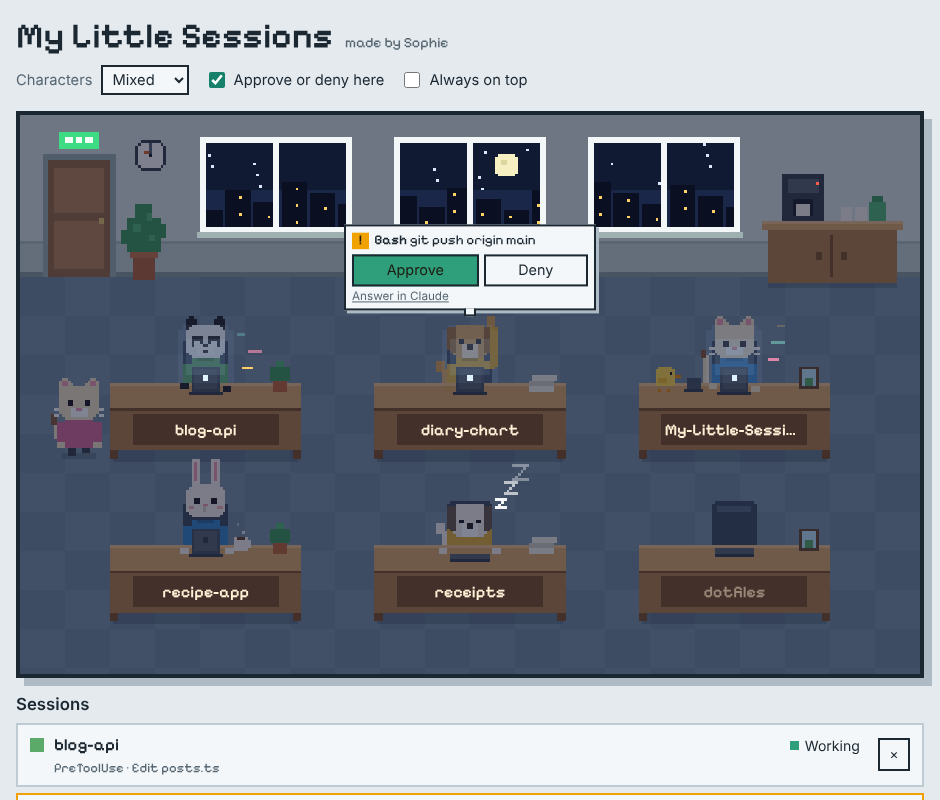
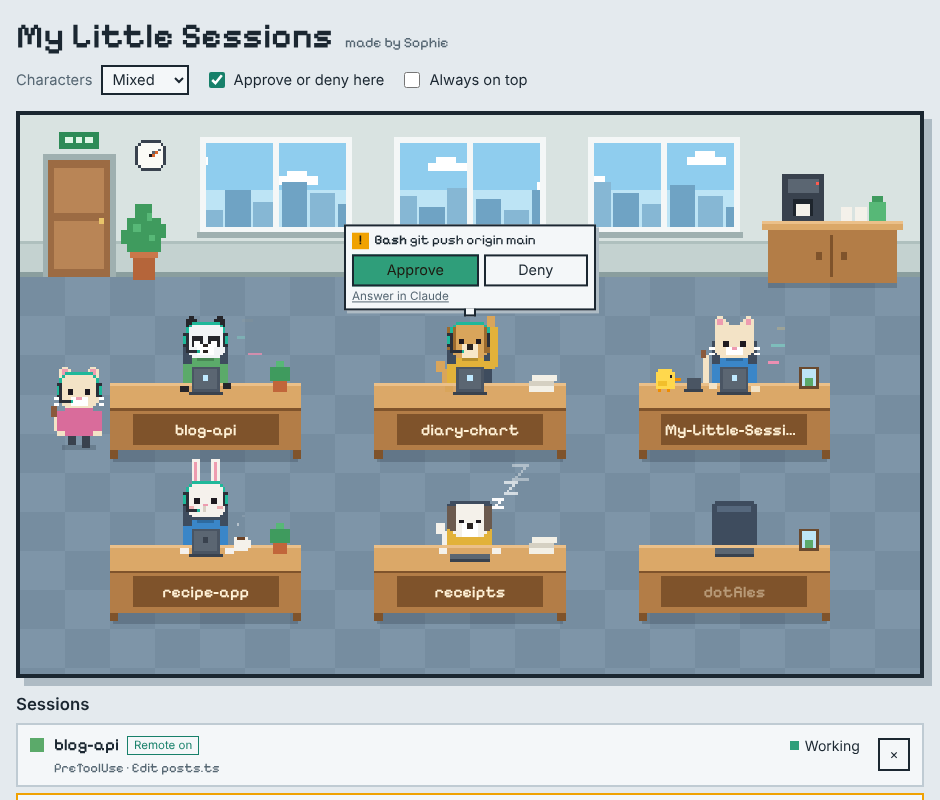
Show a headset on sessions whose Remote Control is connected
Each hook now passes along whether the session's Remote Control is
connected (Claude Code sets CLAUDE_CODE_BRIDGE_SESSION_ID for hooks while
it is). Connected sessions wear a headset, the list shows "Remote on" or
"Remote off", and clicking a character whose Remote Control is off
offers a button that copies /remote-control.

Hooks installed by earlier versions keep working but do not report this,
so the app asks to connect again to update them.

Version 0.2.0.

Claude-Session: https://claude.ai/code/session_011fB4UR8gxU3EZ1Y68YrFjY

diff --git a/src/ui/app.js b/src/ui/app.js
@@ -11,8 +11,10 @@
       working: 'Working', subagent: 'Intern at work', approval: 'Needs approval', waiting: 'Waiting for you', sleeping: 'Asleep', error: 'Error', arriving: 'Arriving', leaving: 'Leaving',
       allow: 'Approve', deny: 'Deny', pass: 'Answer in Claude', answerInClaude: 'Answer this one in Claude.', more: n => `+${n} more`,
       dismiss: 'Clear desk', needsYou: 'Needs your answer',
+      rcOn: 'Remote on', rcOff: 'Remote off', rcOnLong: 'Remote Control is connected.', rcOffLong: 'Remote Control is off for this session.',
+      copyRc: 'Copy /remote-control', copied: 'Copied. Paste it into that session and press Enter.', copyFail: 'Could not copy. Type /remote-control in that session.',
       connectNone: 'Not connected to Claude Code yet. Connecting adds hooks to your Claude Code settings file (the original is backed up first), and sessions show up here whenever they do something.',
-      connectOutdated: 'The connection details have changed. Connect again to keep sessions showing up.',
+      connectOutdated: 'The hooks in your Claude Code settings are from an older version or incomplete. Connect again to bring them up to date.',
       connectBtn: 'Connect to Claude Code', reconnectBtn: 'Connect again',
       connected: 'Connected to Claude Code', notConnected: 'Not connected', disconnect: 'Disconnect',
       connectWarn: 'Heads-up: connecting changes your Claude Code settings, and sessions with Remote Control turned on may drop that connection. If one does, run /remote-control in that session again, or turn it back on with the Remote Control icon at the top of the session.',
@@ -29,8 +31,10 @@
       working: '작업 중', subagent: '인턴 투입', approval: '승인 대기', waiting: '입력 대기', sleeping: '자는 중', error: '오류', arriving: '출근 중', leaving: '퇴근 중',
       allow: '승인', deny: '거절', pass: 'Claude에서 답하기', answerInClaude: '이 요청은 Claude에서 답해 주세요.', more: n => `외 ${n}건`,
       dismiss: '자리 치우기', needsYou: '확인이 필요해요',
+      rcOn: '원격 켜짐', rcOff: '원격 꺼짐', rcOnLong: '리모트 컨트롤이 연결돼 있어요.', rcOffLong: '이 세션은 리모트 컨트롤이 꺼져 있어요.',
+      copyRc: '/remote-control 복사', copied: '복사했어요. 그 세션에 붙여 넣고 Enter를 누르세요.', copyFail: '복사하지 못했어요. 그 세션에서 /remote-control을 직접 입력해 주세요.',
       connectNone: '아직 Claude Code와 연결되지 않았어요. 연결하면 Claude Code 설정 파일에 훅이 추가되고(원래 파일은 먼저 백업해요), 세션이 움직일 때마다 여기에 나타나요.',
-      connectOutdated: '연결 정보가 바뀌었어요. 세션이 계속 보이려면 다시 연결해 주세요.',
+      connectOutdated: 'Claude Code 설정에 있는 훅이 예전 버전이거나 일부만 있어요. 다시 연결하면 최신 상태로 맞춰져요.',
       connectBtn: 'Claude Code에 연결', reconnectBtn: '다시 연결',
       connected: 'Claude Code 연결됨', notConnected: '연결 안 됨', disconnect: '연결 해제',
       connectWarn: '미리 알려드려요. 연결하면 Claude Code 설정이 바뀌면서, 리모트 컨트롤을 켜 둔 세션의 원격 연결이 끊길 수 있어요. 끊기면 그 세션에서 /remote-control을 다시 실행하거나, 세션 위쪽의 리모트 컨트롤 아이콘을 눌러 다시 켜 주세요.',
@@ -53,6 +57,7 @@
   canvas.setAttribute('aria-label', T.canvas);
   emptyEl.textContent = T.empty;
   $('card-dismiss').textContent = T.dismiss;
+  $('card-copy').textContent = T.copyRc;
   $('disconnect').textContent = T.disconnect;
   $('connect-warn').textContent = T.connectWarn;
   $('notice-ok').textContent = T.ok;
@@ -139,7 +144,7 @@
 
     const li = document.createElement('li');
     li.className = 'row';
-    li.innerHTML = '<span class="sw"></span><span class="nm"></span><span class="pill"><i></i><span class="pilltxt"></span></span><span class="ev"></span>'
+    li.innerHTML = '<span class="sw"></span><span class="nm"><span class="nmtxt"></span><span class="rc" hidden></span></span><span class="pill"><i></i><span class="pilltxt"></span></span><span class="ev"></span>'
       + '<span class="acts"><button type="button" class="yes"></button><button type="button" class="no"></button><button type="button" class="x">×</button></span>';
     const r = sel => li.querySelector(sel);
     r('.sw').style.background = v.shirt;
@@ -159,7 +164,12 @@
     v.tag.textContent = s.name;
     v.tag.classList.toggle('off', v.mode !== 'seated');
     v.row.dataset.st = shown;
-    v.row.querySelector('.nm').textContent = s.name;
+    v.remote = s.remote;
+    v.row.querySelector('.nmtxt').textContent = s.name;
+    const chip = v.row.querySelector('.rc');
+    chip.hidden = typeof s.remote !== 'boolean';
+    chip.textContent = s.remote ? T.rcOn : T.rcOff; chip.dataset.on = String(s.remote === true);
+    if (cardFor === v) fillCard(v);
     v.row.querySelector('.nm').title = s.cwd;
     v.row.querySelector('.pilltxt').textContent = T[shown];
     v.row.querySelector('.ev').textContent = s.ev;
@@ -208,10 +218,26 @@
     if (p) await post('/api/decide', { pending: p.id, decision });
   }
   function closeCard() { cardFor = null; card.hidden = true; }
-  function openCard(v) {
-    cardFor = v;
+  function fillCard(v) {
+    const known = typeof v.session.remote === 'boolean';
     $('card-name').textContent = v.session.name;
     $('card-path').textContent = v.session.cwd;
+    $('card-rc').hidden = !known;
+    $('card-rc').textContent = v.session.remote ? T.rcOnLong : T.rcOffLong;
+    $('card-copy').hidden = v.session.remote !== false;
+  }
+  async function copyText(text) {
+    try { await navigator.clipboard.writeText(text); return true; } catch (e) { /* fall back below */ }
+    const area = document.createElement('textarea');
+    area.value = text; document.body.appendChild(area); area.select();
+    let ok = false;
+    try { ok = document.execCommand('copy'); } catch (e) { ok = false; }
+    area.remove();
+    return ok;
+  }
+  function openCard(v) {
+    cardFor = v;
+    fillCard(v);
     const d = office.desks[v.desk];
     card.style.left = Math.min(78, Math.max(22, d.cx / office.W * 100)) + '%';
     card.style.top = ((d.T - 26) / office.H * 100) + '%';
@@ -229,6 +255,7 @@
   });
   canvas.addEventListener('mousemove', e => { canvas.style.cursor = visualAt(e) ? 'pointer' : 'default'; });
   document.addEventListener('keydown', e => { if (e.key === 'Escape') closeCard(); });
+  $('card-copy').addEventListener('click', async () => { toast(await copyText('/remote-control') ? T.copied : T.copyFail); });
   $('card-dismiss').addEventListener('click', () => { if (cardFor) post('/api/dismiss', { session: cardFor.id }); closeCard(); });
 
   $('skin').addEventListener('change', e => post('/api/settings', { skin: e.target.value }));
@@ -268,7 +295,7 @@
       let v = visuals.get(s.id);
       if (!v) {
         const h = hash(s.id);
-        v = { id: s.id, session: s, desk: freeDesk(), kind: KINDS[h % 5], variant: (h >>> 4) % 12, shirt: SHIRTS[(h >>> 9) % 6], seed: (h % 997) / 100, state: s.state, mode: 'seated', px: 0, py: 0, path: null, pi: 0 };
+        v = { id: s.id, session: s, desk: freeDesk(), kind: KINDS[h % 5], variant: (h >>> 4) % 12, shirt: SHIRTS[(h >>> 9) % 6], seed: (h % 997) / 100, state: s.state, remote: s.remote, mode: 'seated', px: 0, py: 0, path: null, pi: 0 };
         visuals.set(s.id, v);
         mount(v);
         relayout();

diff --git a/src/hooks-config.js b/src/hooks-config.js
@@ -26,10 +26,15 @@ function hookUrl(port, token) {
 
 // The short connect timeout matters when the app is closed: the server is on this machine, so a
 // connection either opens at once or never will, and Windows otherwise retries for about 2 seconds.
+//
+// Claude Code sets CLAUDE_CODE_BRIDGE_SESSION_ID for hooks while the session's Remote Control is
+// connected. Passing it along as "rc" lets the office show who is reachable remotely. When the
+// variable is not set, sh sends an empty value and cmd.exe sends the %NAME% text unchanged.
+const RC_VAR = 'CLAUDE_CODE_BRIDGE_SESSION_ID';
 function hookCommand(url, maxSeconds, platform = process.platform) {
-  const curl = `-s --connect-timeout 0.3 -m ${maxSeconds} -X POST --data-binary @- ${url}`;
-  if (platform === 'win32') return { command: 'cmd.exe', args: ['/d', '/s', '/c', `curl.exe ${curl} & exit /b 0`] };
-  return { command: 'sh', args: ['-c', `curl ${curl}; exit 0`] };
+  const curl = `-s --connect-timeout 0.3 -m ${maxSeconds} -X POST --data-binary @-`;
+  if (platform === 'win32') return { command: 'cmd.exe', args: ['/d', '/s', '/c', `curl.exe ${curl} ${url}?rc=%${RC_VAR}% & exit /b 0`] };
+  return { command: 'sh', args: ['-c', `curl ${curl} "${url}?rc=\${${RC_VAR}}"; exit 0`] };
 }
 
 function buildHooks(port, token, platform = process.platform) {
@@ -114,11 +119,12 @@ function uninstall(file) {
   if (JSON.stringify(before) !== JSON.stringify(after)) write(file, after);
 }
 
-// 'connected' when every hook points at this app, 'outdated' when some of ours exist but not all, else 'none'.
+// 'connected' when every hook is the current one for this app, 'outdated' when ours exist but are
+// incomplete or from an older version, else 'none'.
 function status(file, port, token) {
   let settings;
   try { settings = readSettings(file); } catch (e) { return { state: 'error', message: e.message }; }
-  const url = hookUrl(port, token);
+  const url = hookUrl(port, token) + '?rc=';
   const hooks = settings.hooks && typeof settings.hooks === 'object' ? settings.hooks : {};
   const text = JSON.stringify(hooks);
   if (!text.includes(MARK)) return { state: 'none' };
@@ -126,4 +132,4 @@ function status(file, port, token) {
   return { state: complete ? 'connected' : 'outdated' };
 }
 
-module.exports = { MARK, EVENTS, BACKUP_SUFFIX, hookUrl, hookCommand, buildHooks, settingsPath, install, uninstall, status, withoutOurs };
+module.exports = { MARK, EVENTS, RC_VAR, BACKUP_SUFFIX, hookUrl, hookCommand, buildHooks, settingsPath, install, uninstall, status, withoutOurs };

diff --git a/src/sessions.js b/src/sessions.js
@@ -62,10 +62,11 @@ class Office extends EventEmitter {
 
     let s = this.sessions.get(id);
     if (!s) {
-      s = { id, name: '', title: '', cwd: '', base: 'waiting', ev: '', subagents: 0, pending: [], error: '', startedAt: this.now(), lastAt: 0 };
+      s = { id, name: '', title: '', cwd: '', base: 'waiting', ev: '', subagents: 0, pending: [], error: '', remote: null, startedAt: this.now(), lastAt: 0 };
       this.sessions.set(id, s);
     }
     s.lastAt = this.now();
+    if (typeof options.remote === 'boolean') s.remote = options.remote;   // is Remote Control connected right now
     if (!s.cwd && typeof evt.cwd === 'string') s.cwd = evt.cwd;
     if (typeof evt.session_title === 'string' && evt.session_title) s.title = evt.session_title;
     s.name = s.title || baseName(s.cwd);
@@ -184,7 +185,7 @@ class Office extends EventEmitter {
     for (const r of Array.isArray(list) ? list : []) {
       if (!r || typeof r.id !== 'string' || !r.id || !(r.lastAt > cutoff) || this.sessions.has(r.id)) continue;
       const title = typeof r.title === 'string' ? r.title : '', cwd = typeof r.cwd === 'string' ? r.cwd : '';
-      this.sessions.set(r.id, { id: r.id, name: title || baseName(cwd), title, cwd, base: 'waiting', ev: typeof r.ev === 'string' ? r.ev : '', subagents: 0, pending: [], error: '', startedAt: Number(r.startedAt) || r.lastAt, lastAt: r.lastAt });
+      this.sessions.set(r.id, { id: r.id, name: title || baseName(cwd), title, cwd, base: 'waiting', ev: typeof r.ev === 'string' ? r.ev : '', subagents: 0, pending: [], error: '', remote: null, startedAt: Number(r.startedAt) || r.lastAt, lastAt: r.lastAt });
     }
   }
 
@@ -192,7 +193,7 @@ class Office extends EventEmitter {
     return [...this.sessions.values()]
       .sort((a, b) => a.startedAt - b.startedAt)
       .map(s => ({
-        id: s.id, name: s.name, cwd: s.cwd, ev: s.ev, error: s.error,
+        id: s.id, name: s.name, cwd: s.cwd, ev: s.ev, error: s.error, remote: s.remote,
         state: s.pending.length ? 'approval' : s.error ? 'error' : s.subagents > 0 ? 'subagent'
           : s.base === 'waiting' && this.now() - s.lastAt > SLEEP_MS ? 'sleeping' : s.base,
         pending: s.pending.map(p => ({ id: p.id, tool: p.tool, text: p.text, canDecide: p.canDecide }))

diff --git a/src/server.js b/src/server.js
@@ -104,11 +104,14 @@ function createServer(options = {}) {
   const send = (res, code, body, type) => { res.writeHead(code, type ? { 'Content-Type': type } : {}); res.end(body || ''); };
   const json = (res, code, obj) => send(res, code, JSON.stringify(obj), 'application/json');
 
-  async function onHook(req, res, token) {
+  async function onHook(req, res, token, url) {
     if (!safeEqual(token, config.hookToken)) return send(res, 404);
     let evt;
     try { evt = JSON.parse(await readBody(req)); } catch (e) { return send(res, 200); }
-    const pending = office.handle(evt, { canDecide: config.approvals });
+    // "rc" is the Remote Control id when connected; empty or an unexpanded %NAME% means it is off.
+    const rc = url.searchParams.get('rc');
+    const remote = rc === null ? undefined : rc !== '' && !rc.includes('%');
+    const pending = office.handle(evt, { canDecide: config.approvals, remote });
     // Anything written back is read by Claude Code, so stay silent unless this is a decision.
     if (!pending || !pending.canDecide) return send(res, 200);
     const timer = setTimeout(() => { if (reply(pending.id, '')) office.settle(pending.id, null); }, HOLD_MS);
@@ -188,7 +191,7 @@ function createServer(options = {}) {
     if (host !== `127.0.0.1:${boundPort}` && host !== `localhost:${boundPort}`) return send(res, 403);
     const url = new URL(req.url, `http://127.0.0.1:${boundPort}`);
     const done = p => Promise.resolve(p).catch(() => { if (!res.headersSent) send(res, 500); });
-    if (req.method === 'POST' && url.pathname.startsWith(hooksConfig.MARK)) return done(onHook(req, res, url.pathname.slice(hooksConfig.MARK.length)));
+    if (req.method === 'POST' && url.pathname.startsWith(hooksConfig.MARK)) return done(onHook(req, res, url.pathname.slice(hooksConfig.MARK.length), url));
     if (url.pathname.startsWith('/api/')) return done(onApi(req, res, url));
     if (url.pathname === '/health') return json(res, 200, { app: 'my-little-sessions', version: options.version || '0.0.0' });
     if (req.method === 'GET') return onStatic(req, res, url);

diff --git a/src/ui/office.js b/src/ui/office.js
@@ -148,6 +148,12 @@ window.PixelOffice = function (canvas) {
     const ey = hy + 5 + (o.down ? 1 : 0);
     if (o.blink) { R(cx - 4, ey + 1, 2, 1, eye); R(cx + 2, ey + 1, 2, 1, eye); }
     else { R(cx - 4, ey, 2, 2, eye); R(cx + 2, ey, 2, 2, eye); }
+    if (o.headset) {   // Remote Control is connected
+      const band = '#1FB89A', cup = '#2B2F38';
+      R(x + 2, hy - 1, 10, 1, band); R(x + 1, hy, 1, 1, band); R(x + 12, hy, 1, 1, band); R(x, hy + 1, 1, 2, band); R(x + 13, hy + 1, 1, 2, band);
+      R(x - 1, hy + 3, 2, 5, cup); R(x + 13, hy + 3, 2, 5, cup); R(x - 1, hy + 4, 1, 3, band); R(x + 14, hy + 4, 1, 3, band);
+      R(x, hy + 8, 1, 2, cup); R(x + 1, hy + 9, 3, 1, cup); R(x + 4, hy + 9, 1, 1, band);
+    }
   }
   const headTop = (s, T, t) => {
     const typing = s.state === 'working' || s.state === 'subagent';
@@ -164,7 +170,7 @@ window.PixelOffice = function (canvas) {
     R(cx - 5, by, 10, 10, s.shirt); R(cx - 3, by, 6, 1, 'rgba(0,0,0,.2)');
     R(cx - 8, by + 2, 3, 8, s.shirt);
     if (st !== 'approval') R(cx + 5, by + 2, 3, 8, s.shirt);
-    head(k, c, cx, hy, { blink, down: typing || st === 'error', tongue: st === 'waiting' });
+    head(k, c, cx, hy, { blink, down: typing || st === 'error', tongue: st === 'waiting', headset: s.remote === true });
     if (st === 'approval') {
       const wv = Math.round(Math.sin(t * 9));
       R(cx + 5, by + 1, 4, 3, s.shirt); R(cx + 7, hy + 1, 3, by + 3 - (hy + 1), s.shirt); R(cx + 7 + wv, hy - 3, 3, 4, hc);
@@ -225,7 +231,7 @@ window.PixelOffice = function (canvas) {
     R(x - 5, fy - 14 + f, 10, 10, s.shirt);
     R(x - 8, fy - 13 + f, 3, 7, s.shirt); R(x + 5, fy - 13 + f, 3, 7, s.shirt);
     R(x - 8, fy - 6 + f, 3, 2, hc); R(x + 5, fy - 6 + f, 3, 2, hc);
-    head(k, c, x, fy - 26 + f, { blink: false });
+    head(k, c, x, fy - 26 + f, { blink: false, headset: s.remote === true });
   }
   // A pixel "z" for a sleeping session.
   function zzz(x, y, n) {

diff --git a/src/ui/style.css b/src/ui/style.css
@@ -70,6 +70,7 @@ button.link { border: 0; background: none; padding: 0; color: var(--muted); text
 .ask-btns button.pass { flex: 1 0 100%; padding: 0; border: 0; background: none; text-align: left; text-decoration: underline; color: var(--muted); font-size: clamp(10px, 1.3cqw, 12px); }
 .card-name { font: 600 1rem/1.2 var(--f-pixel); overflow-wrap: anywhere; }
 .card-path { font-size: .8rem; color: var(--muted); overflow-wrap: anywhere; }
+.card-rc { font-size: .85rem; }
 .card-btns button { flex: 1 1 auto; font-size: .88rem; }
 @container (max-width: 560px) { .ask { padding: 4px; gap: 4px; } .ask:not(.open) .ask-btns, .ask:not(.open) .ask-note { display: none; } }
 
@@ -79,7 +80,9 @@ ul { list-style: none; margin: 0; padding: 0; }
 .row { display: grid; grid-template-columns: 14px minmax(0, 1fr) auto auto; grid-template-areas: "sw nm pill acts" ". ev ev acts"; column-gap: 10px; row-gap: 2px; align-items: center; padding: 8px 12px; border: 2px solid var(--line); background: var(--surface); }
 .row[data-st="approval"] { border-color: var(--st-ask); }
 .sw { grid-area: sw; width: 14px; height: 14px; }
-.nm { grid-area: nm; font: 600 1.05rem/1.2 var(--f-pixel); overflow-wrap: anywhere; }
+.nm { grid-area: nm; display: flex; flex-wrap: wrap; align-items: center; gap: 4px 8px; min-width: 0; font: 600 1.05rem/1.2 var(--f-pixel); overflow-wrap: anywhere; }
+.rc { padding: 0 6px; border: 1px solid var(--line); color: var(--muted); font: 400 .72rem/1.5 var(--f-body); white-space: nowrap; }
+.rc[data-on="true"] { border-color: var(--accent); color: var(--accent); }
 .ev { grid-area: ev; font: 400 .82rem/1.3 var(--f-pixel); color: var(--muted); overflow-wrap: anywhere; }
 .pill { grid-area: pill; display: inline-flex; align-items: center; gap: 6px; padding: 2px 8px; font-size: .88rem; line-height: 1.5; white-space: nowrap; }
 .pill i { width: 9px; height: 9px; flex: none; background: var(--st-wait); }

diff --git a/test/hook-command.test.js b/test/hook-command.test.js
@@ -10,9 +10,9 @@ const { spawn } = require('child_process');
 const { createServer } = require('../src/server');
 const { buildHooks, hookCommand } = require('../src/hooks-config');
 
-function run(handler, input) {
+function run(handler, input, env = process.env) {
   return new Promise((resolve, reject) => {
-    const child = spawn(handler.command, handler.args, { stdio: ['pipe', 'pipe', 'pipe'], windowsHide: true });
+    const child = spawn(handler.command, handler.args, { stdio: ['pipe', 'pipe', 'pipe'], windowsHide: true, env });
     let stdout = '', stderr = '';
     child.stdout.on('data', d => { stdout += d; });
     child.stderr.on('data', d => { stderr += d; });
@@ -55,6 +55,19 @@ test('a permission request waits for the click and prints the decision for Claud
   const out = await running;
   assert.equal(out.code, 0);
   assert.deepEqual(JSON.parse(out.stdout), { hookSpecificOutput: { hookEventName: 'PermissionRequest', decision: { behavior: 'allow' } } });
+});
+
+test('the command reports whether Remote Control is connected', async t => {
+  const srv = await boot(t);
+  const handler = buildHooks(srv.port, srv.hookUrl.split('/').pop()).Stop[0].hooks[0];
+  const evt = { session_id: 'abc', cwd: process.cwd(), hook_event_name: 'Stop' };
+  const off = { ...process.env }; delete off.CLAUDE_CODE_BRIDGE_SESSION_ID;
+  assert.equal((await run(handler, evt, off)).code, 0);
+  assert.equal(srv.office.snapshot()[0].remote, false);
+  assert.equal((await run(handler, evt, { ...off, CLAUDE_CODE_BRIDGE_SESSION_ID: 'session_01ABCdef' })).code, 0);
+  assert.equal(srv.office.snapshot()[0].remote, true);
+  assert.equal((await run(handler, evt, off)).code, 0);
+  assert.equal(srv.office.snapshot()[0].remote, false);
 });
 
 test('with the app closed the command exits 0 quickly and silently', async () => {

diff --git a/test/hooks-config.test.js b/test/hooks-config.test.js
@@ -21,7 +21,7 @@ test('install creates the file when there is none and reports connected', () => 
   assert.equal(pr.command, 'cmd.exe');
   assert.equal(pr.timeout, 600);
   assert.equal(pr.async, undefined);
-  assert.match(pr.args[3], /^curl\.exe -s --connect-timeout 0\.3 -m 595 -X POST --data-binary @- http:\/\/127\.0\.0\.1:47821\/mls-hook\/a{32} & exit \/b 0$/);
+  assert.match(pr.args[3], /^curl\.exe -s --connect-timeout 0\.3 -m 595 -X POST --data-binary @- http:\/\/127\.0\.0\.1:47821\/mls-hook\/a{32}\?rc=%CLAUDE_CODE_BRIDGE_SESSION_ID% & exit \/b 0$/);
   assert.equal(s.hooks.PreToolUse[0].hooks[0].async, true);
   assert.equal(s.hooks.SessionEnd[0].hooks[0].async, undefined);
 });
@@ -75,4 +75,16 @@ test('a settings file that is not valid JSON is never modified', () => {
   assert.throws(() => hooks.install(f, 47821, TOKEN, 'linux'), /left untouched/);
   assert.equal(fs.readFileSync(f, 'utf8'), '{ "model": "opus", // comment\n }');
   assert.equal(hooks.status(f, 47821, TOKEN).state, 'error');
+});
+
+test('hooks written by an older version report outdated', () => {
+  const f = tmpFile();
+  hooks.install(f, 47821, TOKEN, 'linux');
+  const old = fs.readFileSync(f, 'utf8').split('?rc=${CLAUDE_CODE_BRIDGE_SESSION_ID}').join('');
+  assert.notEqual(old, fs.readFileSync(f, 'utf8'));
+  fs.writeFileSync(f, old);
+  assert.equal(hooks.status(f, 47821, TOKEN).state, 'outdated');
+  hooks.install(f, 47821, TOKEN, 'linux');
+  assert.equal(hooks.status(f, 47821, TOKEN).state, 'connected');
+  assert.equal(read(f).hooks.Stop.length, 1);
 });

diff --git a/test/sessions.test.js b/test/sessions.test.js
@@ -153,3 +153,18 @@ test('sessions survive a restart as waiting, without stale ones or old requests'
   assert.equal(only(b).state, 'waiting');
   assert.deepEqual(only(b).pending, []);
 });
+
+test('Remote Control is unknown until a hook reports it, then follows each report', () => {
+  const o = new Office();
+  o.handle(ev('SessionStart'));
+  assert.equal(only(o).remote, null);
+  o.handle(ev('UserPromptSubmit'), { remote: true });
+  assert.equal(only(o).remote, true);
+  o.handle(ev('Stop'));
+  assert.equal(only(o).remote, true, 'an event without a report keeps the last known value');
+  o.handle(ev('UserPromptSubmit'), { remote: false });
+  assert.equal(only(o).remote, false);
+  const again = new Office();
+  again.restore(JSON.parse(JSON.stringify(o.export())));
+  assert.equal(only(again).remote, null, 'not carried across a restart');
+});

diff --git a/src/ui/index.html b/src/ui/index.html
@@ -48,7 +48,9 @@
     <div class="card" id="card" role="group" hidden>
       <span class="card-name" id="card-name"></span>
       <span class="card-path" id="card-path"></span>
+      <span class="card-rc" id="card-rc" hidden></span>
       <span class="card-btns">
+        <button type="button" id="card-copy" class="solid" hidden></button>
         <button type="button" id="card-dismiss"></button>
       </span>
     </div>

diff --git a/README.md b/README.md
@@ -25,6 +25,7 @@ Windows may show a "Windows protected your PC" notice because the app is not cod
 | Types, with bits of code floating up | Claude is working on your prompt or running a tool |
 | A chick intern appears on the desk | A subagent is running |
 | Raises a hand, with a speech bubble | Claude needs your permission |
+| Wears a headset | Remote Control is connected for that session |
 | Sips coffee | Claude just finished and is waiting for you |
 | Sleeps on the desk, with floating z's | Nothing has happened for 5 minutes |
 | Slumps with a red ✕ | The turn ended with an API error |
@@ -36,7 +37,8 @@ A few more things the office does on its own:
 - **Desks are added as you need them.** Three more appear whenever every desk is taken.
 - **The wall clock and the sky outside follow your real time**, so the office goes through day, sunset and night with you.
 - **Characters can be people, cats, dogs, bears, rabbits, or a mix.** A session keeps the same look for as long as it lives.
-- **Clicking a character** shows which project folder it belongs to, with a button to clear its desk.
+- **Clicking a character** shows which project folder it belongs to, with a button to clear its desk. If its Remote Control is off, there is also a button that copies `/remote-control` so you can paste it into that session.
+- **The headset follows the session's last activity.** If Remote Control drops while a session sits idle, the headset comes off the next time that session does something.
 
 ## Approving from the office
 
